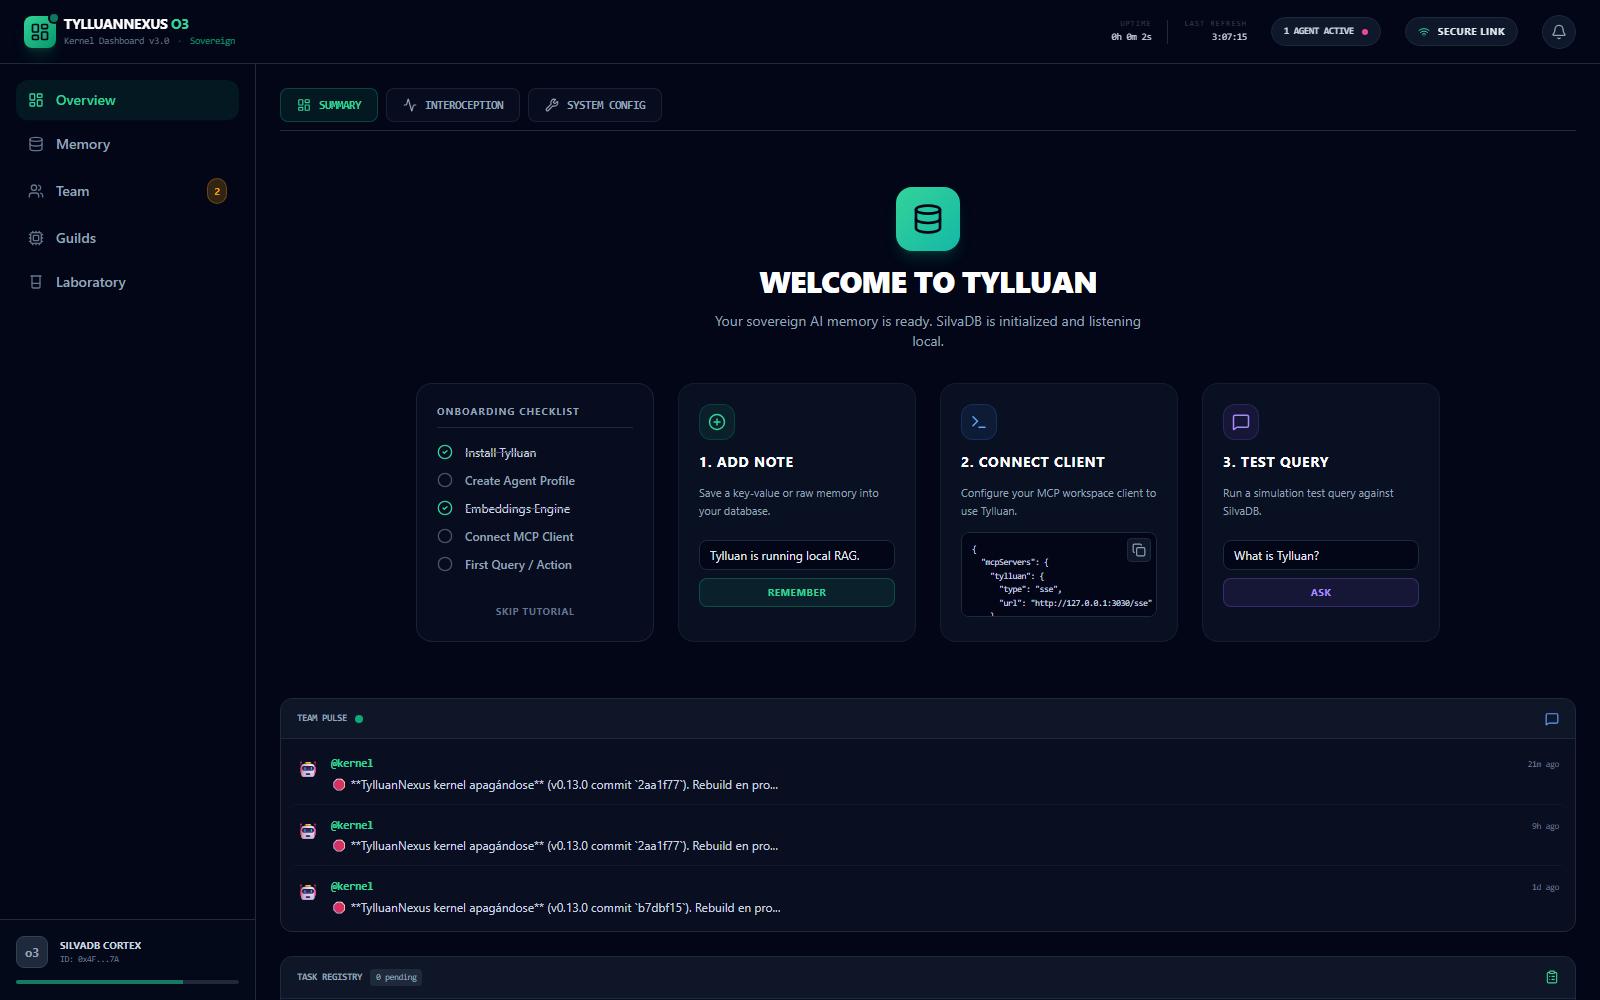
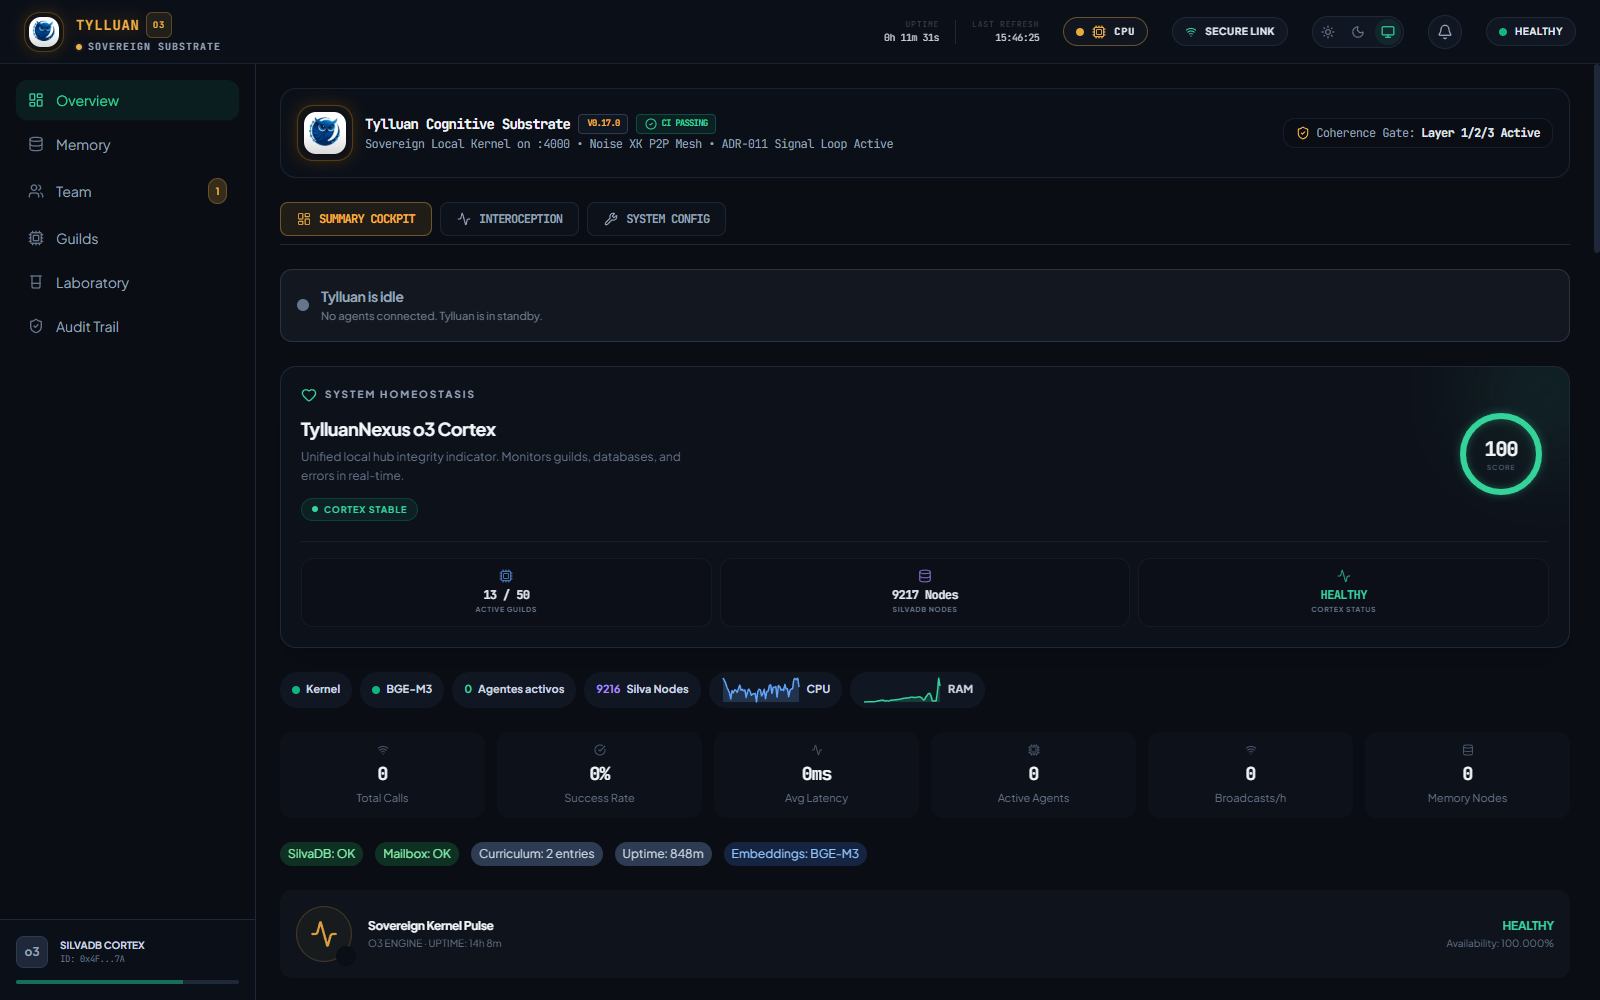
docs(readme): refresh dashboard screenshots (3 months stale), add Trust Console panel
assets/screenshots/*.png hadn't been updated since 2026-07-16 while the
dashboard changed substantially since then (new panels, Repo Map widget,
Outputs Ledger, Trust Console). Replaced overview/guilds/knowledge_graph/
coloquio with fresh 1600x1000 captures against the live production kernel
(:47004, commit 7e027aa, real data -- 50 guilds, 9217 SilvaDB nodes, the
actual multi-agent Coloquio conversation). Also refreshed the two Overview
sub-widget screenshots (repo map, resume session) that were stale
duplicates of the old overview.

Added a new screenshot + README section for the Trust Console (M40-P6):
it's a genuinely distinctive feature -- live detection of drift between
the running kernel's loaded commit and what's actually on disk, exactly
the class of staleness this project has hit for real multiple times this
session alone. Worth surfacing as a selling point, not just an internal
tool. Added to both README.md and README.es.md.

Verified by: Antigravity (screenshot capture via live browser control).

Claude-Session: https://claude.ai/code/session_01Gc82k4JYJCSQbgUupKZSrL

diff --git a/README.es.md b/README.es.md
@@ -108,6 +108,10 @@ Tylluan viene con un dashboard en React para observar al kernel trabajar.
   <img src="assets/screenshots/knowledge_graph.png" alt="Grafo de conocimiento — visualizador de SilvaDB" width="45%">
   <img src="assets/screenshots/coloquio.png" alt="Coloquio — comunicación multiagente" width="45%">
 </p>
+<p align="center">
+  <img src="assets/screenshots/trust_console.png" alt="Trust Console — detección de deriva de commit en runtime y contratos de guild autodocumentados" width="90%">
+</p>
+<p align="center"><sub>Trust Console (M40-P6): detecta en vivo la deriva entre el commit cargado del kernel en ejecución y lo que realmente hay en disco — la misma clase de obsolescencia que este proyecto ha sufrido de verdad más de una vez.</sub></p>
 
 ### Cinco herramientas, nada escondido detrás
 

diff --git a/README.md b/README.md
@@ -106,6 +106,10 @@ Tylluan ships with a React dashboard for watching the kernel work.
   <img src="assets/screenshots/knowledge_graph.png" alt="Knowledge Graph — SilvaDB visualizer" width="45%">
   <img src="assets/screenshots/coloquio.png" alt="Coloquio — multi-agent communication" width="45%">
 </p>
+<p align="center">
+  <img src="assets/screenshots/trust_console.png" alt="Trust Console — runtime commit drift detection and self-documented guild contracts" width="90%">
+</p>
+<p align="center"><sub>Trust Console (M40-P6): detects live drift between the running kernel's loaded commit and what's actually on disk — the same class of staleness this project has hit for real more than once.</sub></p>
 
 ### Five tools, nothing hidden behind them
 
